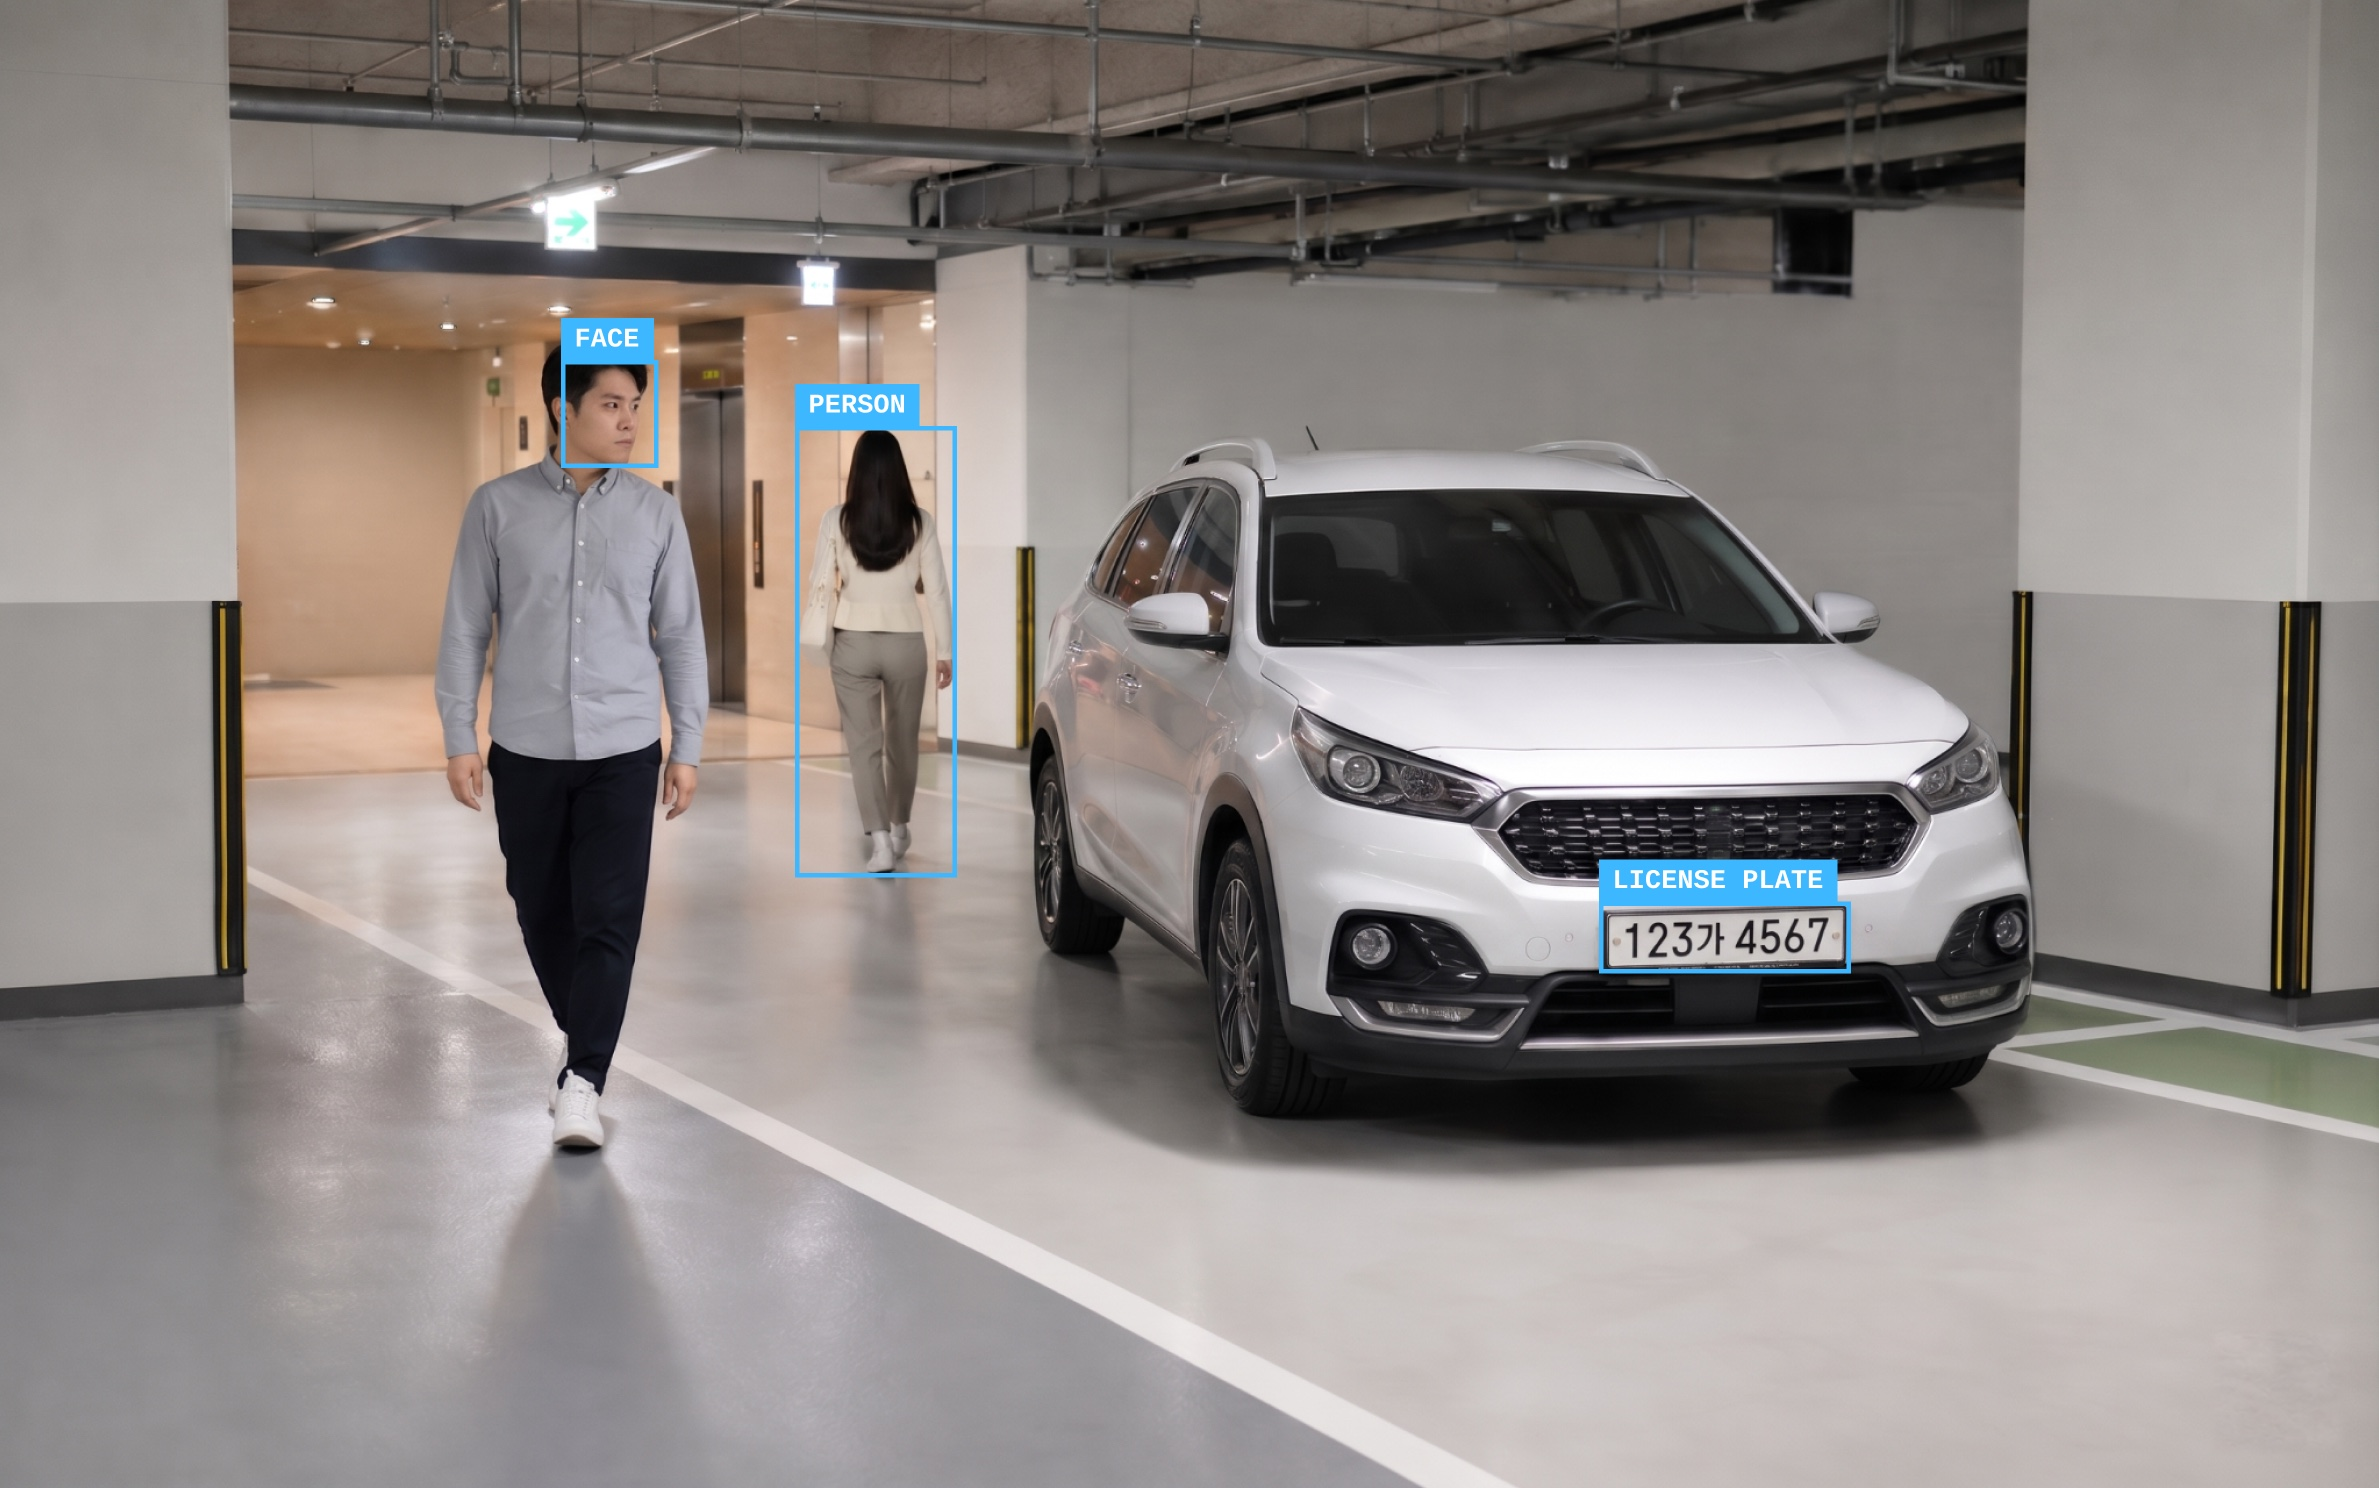
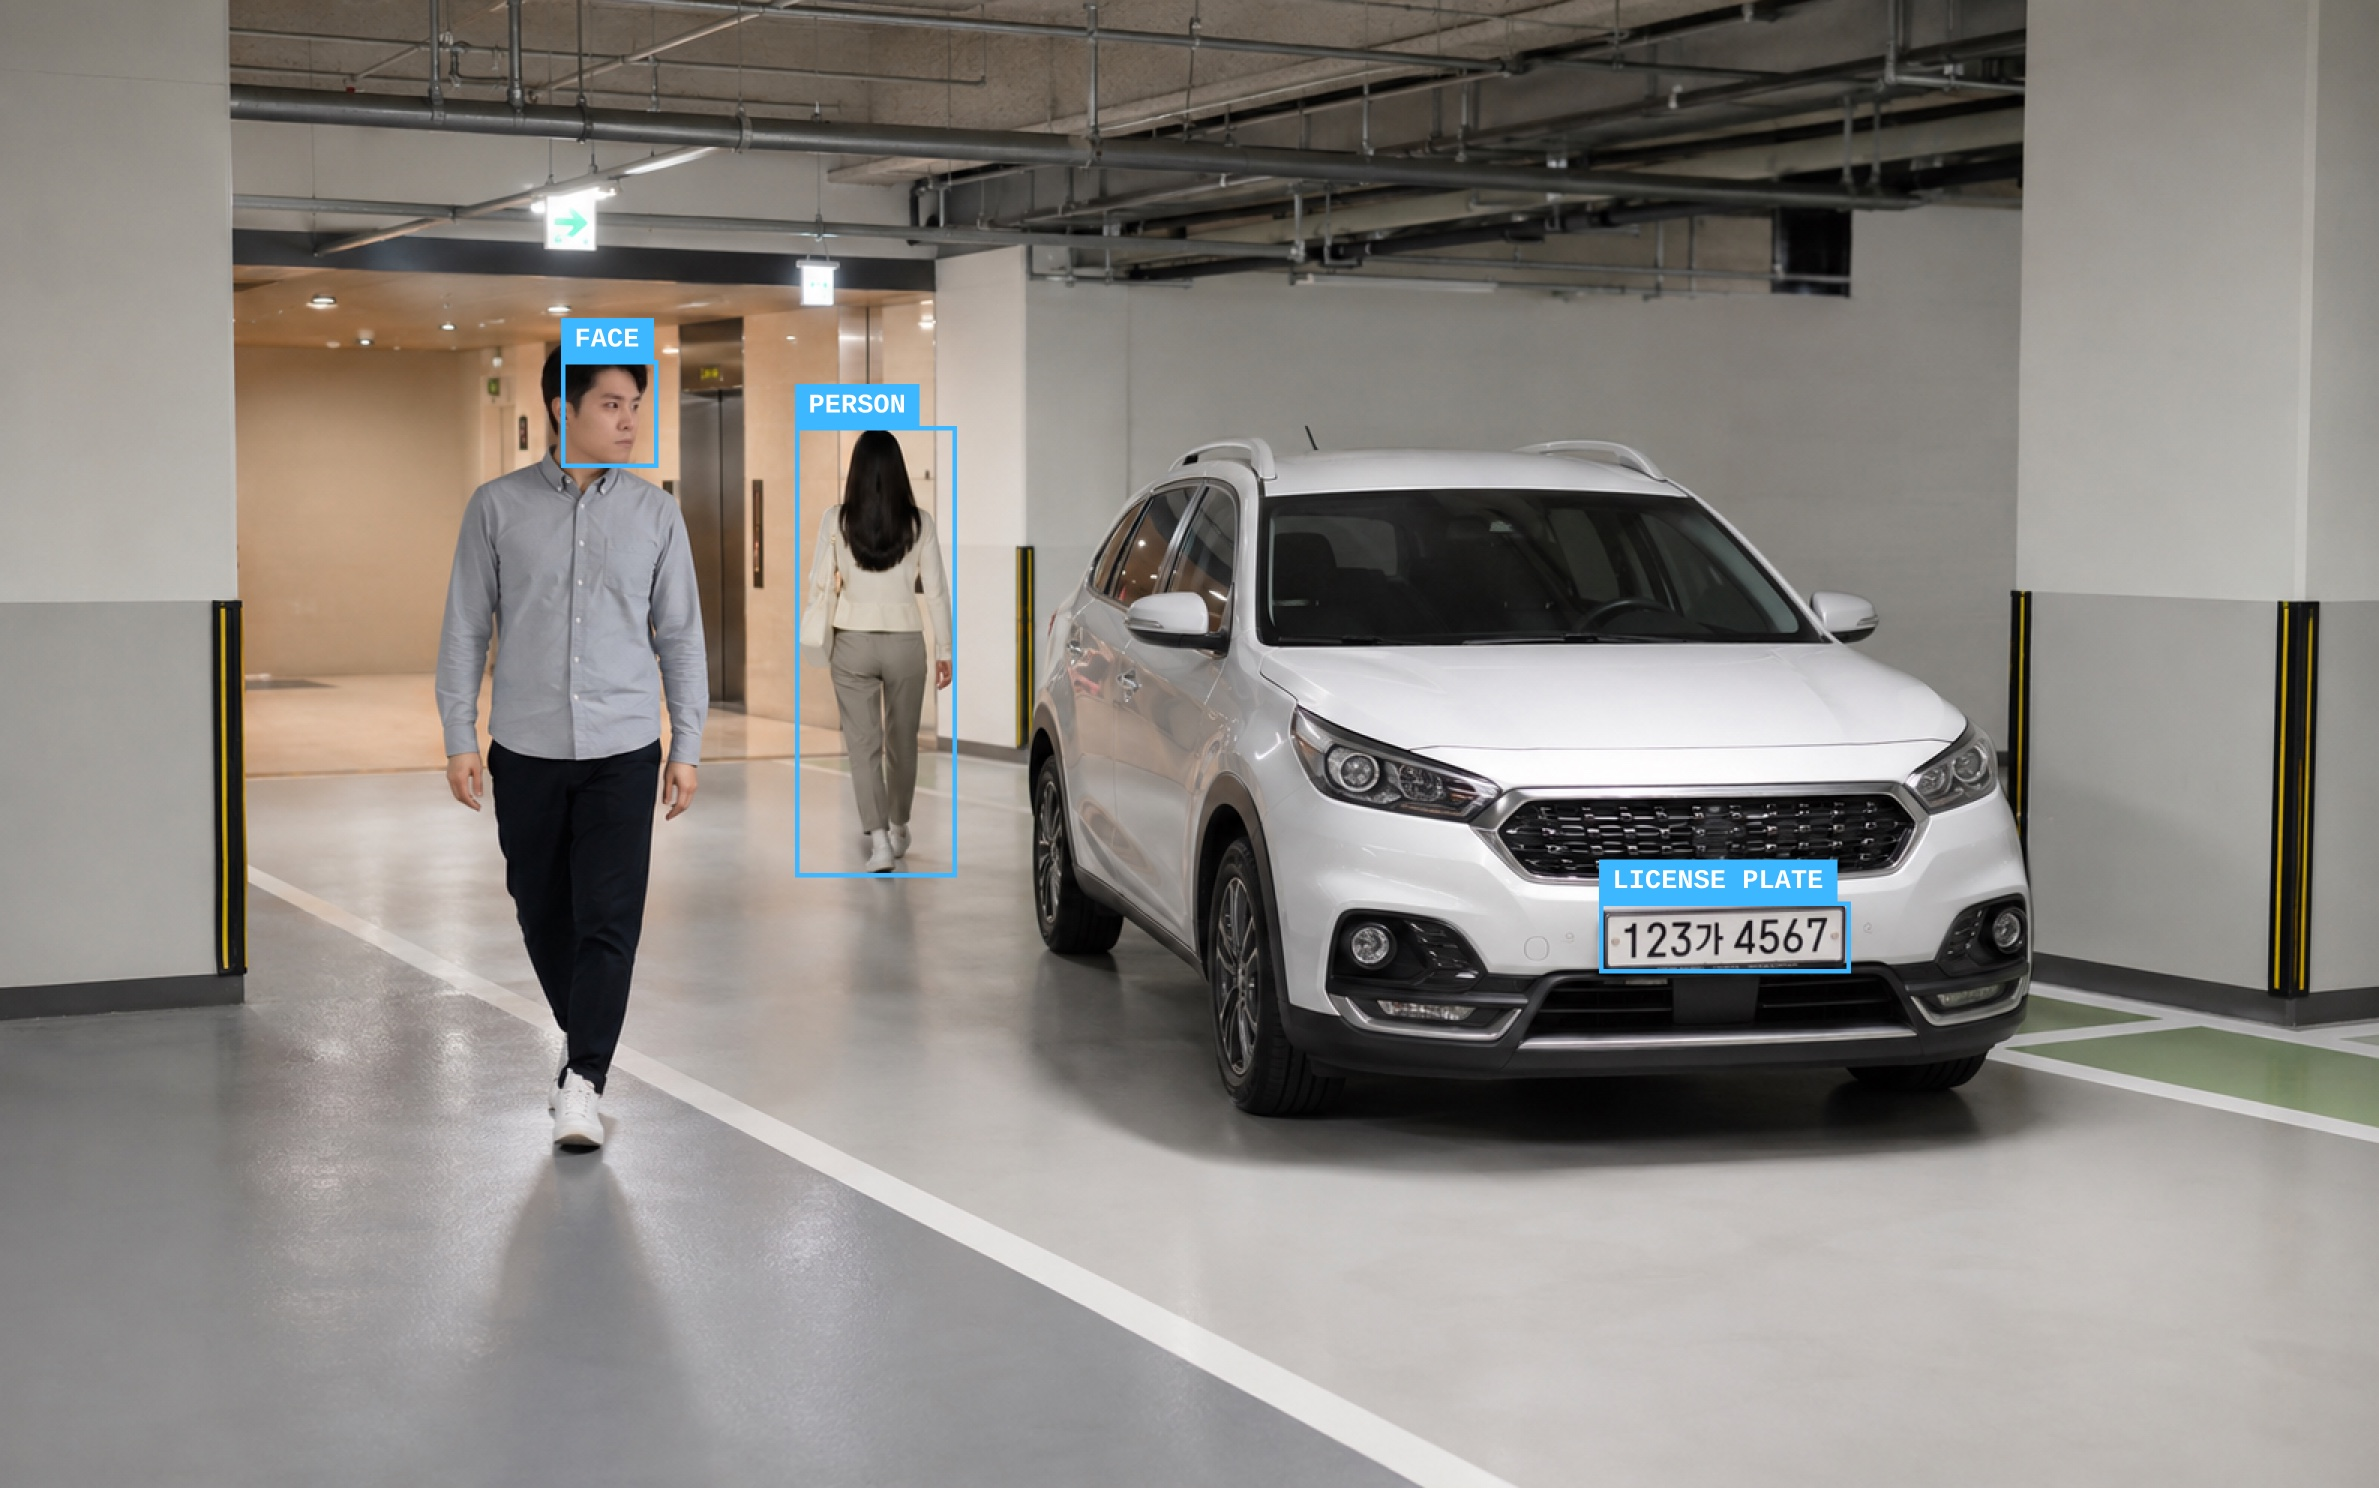
메인 가상얼굴 탭 사진교체

diff --git a/doc/guide/PROMPT_CURRICULUM.md b/doc/guide/PROMPT_CURRICULUM.md
@@ -1,0 +1,157 @@
+# 프롬프트 커리큘럼 (분양사이트 제작용)
+
+실제 분양사이트를 만들 때 필요한 프롬프트만 순서대로 정리했습니다. 위에서부터 그대로 따라 하면 됩니다.
+`{ }`는 내 값으로 바꿉니다. 파일럿(xPrivacy)의 스킬 기획·계정 연결·사용량 관련 대화는 제외했습니다.
+
+---
+
+## 1. 준비 (착수 직후)
+
+**1-1. 환경설정**
+```
+퍼블리싱 프로젝트 환경설정 시작
+```
+사이트명(단지명) · 기술 스택 · 폴더 구조 · 피그마 연결 · 반응형 · 웹접근성 · 가이드/대시보드 · 디자인 시스템 · 감시 프롬프트를 질문에 답하며 진행합니다. (스킬: `publishing-project-setup`)
+
+**1-2. 피그마 연결 확인** (환경설정 4번에서 했다면 생략)
+```
+피그마 연결과 이미지 다운로드가 되는지 확인해줘 {피그마 URL}
+```
+
+**1-3. 작업 규칙 알려두기**
+```
+공통 컴포넌트는 옵션 사용이 우선이야. 레이아웃·섹션 컴포넌트는 구조를 바꾸지 말고, 그 외 Core 컴포넌트는 옵션 추가로만 수정해줘.
+```
+
+---
+
+## 2. 사이트 구조 (메뉴 · 라우팅)
+
+분양사이트는 메인 한 화면에 섹션이 이어지는 구조가 많습니다. 메뉴는 섹션 앵커인지 별도 페이지인지 먼저 정합니다.
+
+```
+분양사이트 메뉴 구조를 {사업개요, 프리미엄, 입지환경, 단지안내(배치·평면), 분양안내(일정·청약), 갤러리, 오시는길, 관심고객등록}로 잡아줘.
+각 메뉴가 별도 페이지인지 메인의 앵커인지는 {앵커 / 별도 페이지}로 해줘.
+GNB, 푸터, 대시보드, pub 라우팅 파일을 모두 만들어줘
+```
+
+---
+
+## 3. 디자인 시스템 (가이드가 있을 때만)
+
+단지 CI(컬러·서체)가 확정된 뒤 진행합니다.
+
+```
+{브랜드 컬러 HEX}, {서체}로 doc/guide/PROMPT_GUIDE_FA_COLORS.md, PROMPT_GUIDE_FA_TYPOGRAPHY.md 기준 파운데이션 가이드를 만들어줘
+```
+```
+doc/guide/PROMPT_GUIDE_FA_ELEVATOR.md, PROMPT_GUIDE_FA_UTILITIES.md 기준으로 Elevator, Utilities 가이드를 만들어줘
+```
+```
+doc/guide/PROMPT_BASE_TEMPLATE.md 기준으로 {Button} 컴포넌트 가이드를 만들어줘
+```
+
+---
+
+## 4. 분양사이트 공통 컴포넌트
+
+여러 섹션에 반복되는 것만 도메인 컴포넌트로 만듭니다(Core 컴포넌트를 감싸서). 한 번만 쓰는 것은 만들지 않습니다.
+
+**4-1. 관심고객 등록(상담 신청) 폼**
+```
+관심고객 등록 폼을 만들어줘. 항목은 이름, 연락처, 방문 희망일(선택), 문의 내용(선택), 개인정보 수집·이용 동의(필수)야.
+유효성 검사와 제출 완료 알림(AlertModal)까지 넣고, 제출 처리는 {API 주소 / 임시 처리}로 연결해줘
+```
+
+**4-2. 고정 상담 버튼** (전화 · 관심고객 등록, 화면 하단 또는 우측)
+```
+모든 페이지에 고정 상담 버튼을 넣어줘. 전화 연결({대표번호})과 관심고객 등록 폼으로 이동 두 가지야. 모바일은 하단 고정, PC는 우측 고정으로 해줘
+```
+
+**4-3. 평면 타입 탭 · 분양일정 · 갤러리**
+```
+평면 타입별 탭 컴포넌트를 만들어줘. 타입 {59A / 84A / 84B} 선택 시 평면도, 전용·공급면적, 세대수가 바뀌게 해줘
+```
+```
+분양 일정 타임라인(공고 · 특별공급 · 일반공급 · 당첨자 발표 · 계약)을 만들어줘
+```
+```
+갤러리 슬라이더를 만들어줘. 이미지를 누르면 크게 보는 라이트박스, 모바일은 스와이프가 되게 해줘
+```
+
+**4-4. 푸터 법정 고지**
+```
+푸터에 분양사이트 필수 고지를 넣어줘. 시행사 · 시공사 · 분양대행사, 사업자등록번호, 모델하우스 주소·전화, 이미지·CG 유의 문구, 개인정보처리방침 링크야. 내용은 {문구}로 해줘
+```
+
+---
+
+## 5. 페이지 퍼블리싱 (섹션마다 반복)
+
+**5-1. 페이지 전체**
+```
+{pub/경로} 피그마대로 업데이트 해줘
+피시 {피그마 URL}
+모바일 {피그마 URL}
+```
+
+**5-2. 섹션 하나만**
+```
+{pub/경로} "{섹션 제목}" 섹션을 피그마대로 업데이트 해줘
+피시 {피그마 URL}
+모바일 {피그마 URL}
+```
+
+**5-3. 문구·줄바꿈만**
+```
+{pub/경로} {섹션}의 문구와 줄바꿈 처리만 피그마대로 업데이트 해줘
+피시 {피그마 URL} / 모바일 {피그마 URL}
+```
+
+**5-4. 이미지 교체** (조감도 · 단지배치도 · 평면도 · 투시도처럼 설명 표기가 들어간 이미지)
+```
+{pub/경로} {섹션} 이미지를 피그마대로 교체해줘. 이미지 위의 표기·배지는 코드로 만들지 말고 이미지에 포함된 통이미지로 처리해줘
+피시 {피그마 URL} / 모바일 {피그마 URL}
+```
+
+---
+
+## 6. 외부 연동
+
+```
+오시는길 섹션에 {카카오맵 / 네이버지도}를 연결해줘. 모델하우스 주소 {주소}, 좌표 {위도, 경도}, 길찾기 버튼과 주차·대중교통 안내를 같이 보여줘
+```
+```
+{GA4 / 메타 픽셀 / 카카오 픽셀} 추적 코드를 넣어줘. 관심고객 등록 제출 완료 시점을 전환 이벤트로 잡아줘
+```
+```
+페이지별 title · description · OG 이미지를 설정해줘. 단지명 {단지명}, 소개 문구 {문구}야
+```
+
+---
+
+## 7. 반응형 점검
+
+```
+반응형 체크 대상 기준으로 UI 문제가 될 만한 경우의 수를 체크리스트로 작성하고, 문제가 없는지 파악한 뒤 대안을 정리해줘
+```
+```
+{번호}번 이슈는 대안대로 처리해줘
+```
+```
+{섹션}의 모바일 줄바꿈은 폰 폭에서만 적용하고, 그 전 반응형 구간에서는 자연스럽게 이어지게 해줘
+```
+
+---
+
+## 8. 오픈 전 점검
+
+```
+npm run audit 실행하고 결과 알려줘
+```
+```
+오픈 전 점검해줘: 깨진 링크, 전화·폼 동작, 이미지 용량, 필수 고지 문구 누락, 모든 페이지 모바일 확인
+```
+```
+대시보드에서 {페이지} 상태를 "완료"로 바꿔줘
+```
